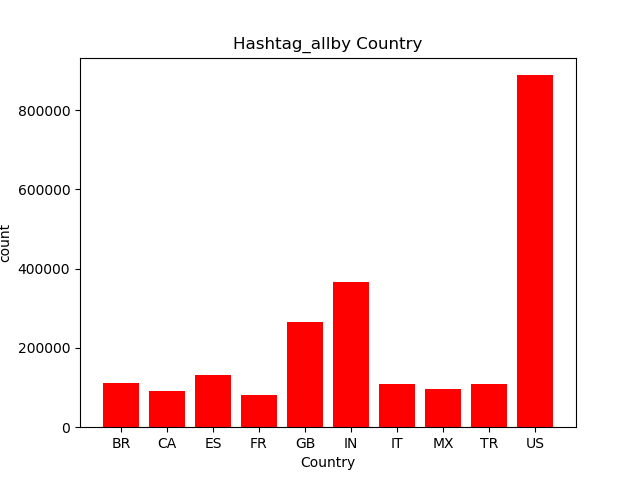
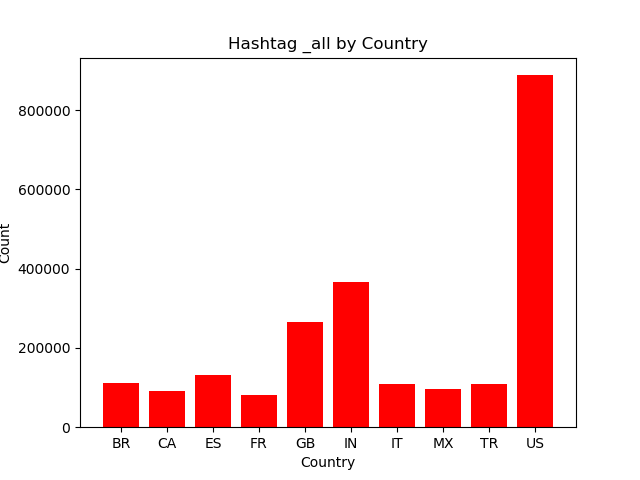
Updated Title

Changed region(s): [[0.5, 0.0625, 0.6562, 0.125], [0.3438, 0.0625, 0.4688, 0.125], [0.0, 0.4688, 0.0312, 0.5625]]

diff --git a/src/visualize.py b/src/visualize.py
@@ -39,13 +39,13 @@ for k, v in sorted(items[:10]):
 plt.bar(keys, values, color = "red")
 
 if args.input_path == "reduced.lang":
-    plt.title("Hashtag" + args.key + "by Language")
+    plt.title("Hashtag " + args.key + " by Language")
     plt.xlabel("Language")
 
 if args.input_path == "reduced.country":
-    plt.title("Hashtag" + args.key + "by Country")
+    plt.title("Hashtag " + args.key + " by Country")
     plt.xlabel("Country")
 
-plt.ylabel("count")
+plt.ylabel("Count")
 plt.savefig(args.input_path + args.key + ".png")
 plt.show()
